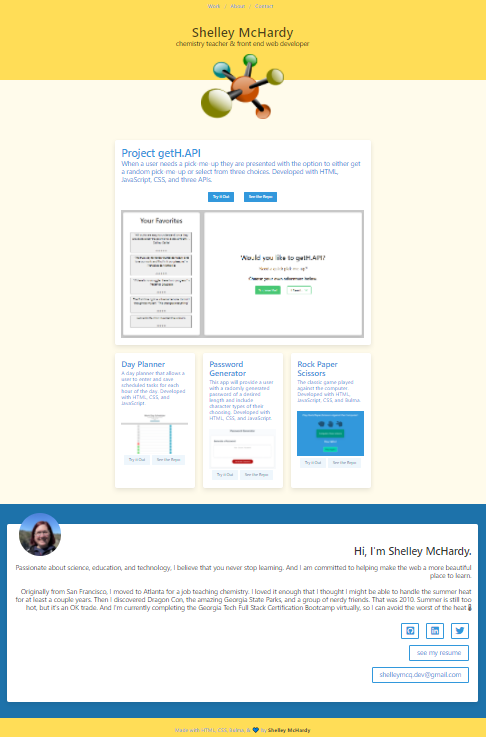
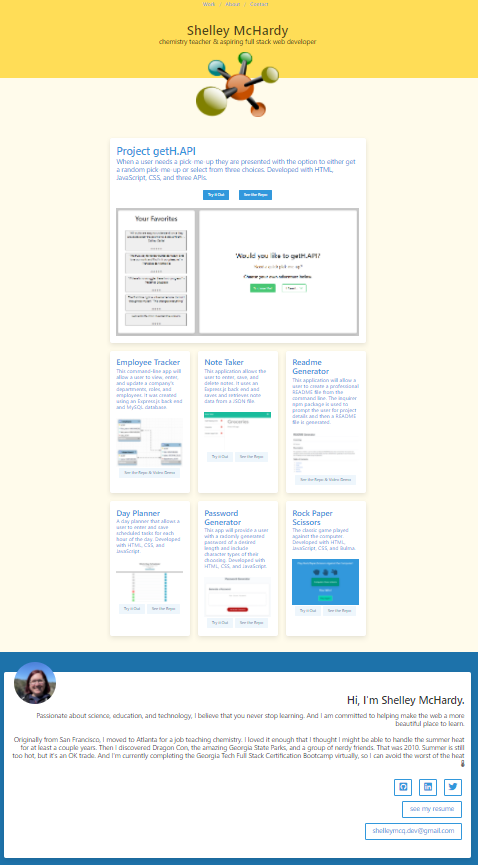
updated readme

Changed region(s): [[0.0, 0.0, 1.0, 1.0]]

diff --git a/README.md b/README.md
@@ -1,6 +1,6 @@
 # Professional-Portfolio
 
-Updated professional portfolio showcasing my increasing skill in HTML and CSS. 
+Updated professional portfolio showcasing my increasing skill in JavaScript, node.js, and MySQL. 
 
 Deployed application:
 https://shelleymcq.github.io/Professional-Portfolio/
